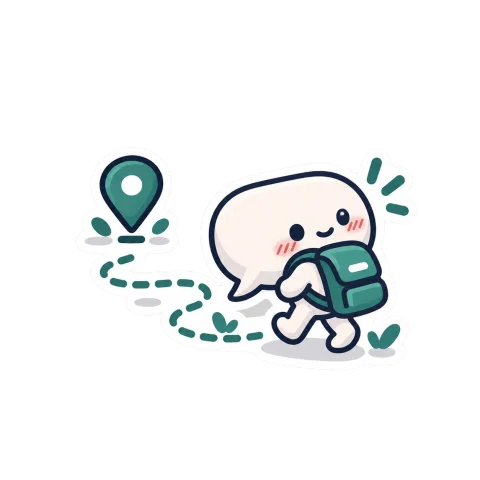
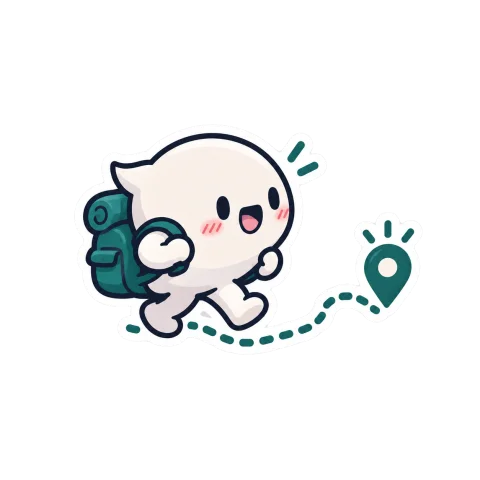
feat: a friends illustration set, picked when a chat rarely says love
Chats under 5 love words per 1,000 messages (or fewer than 10 in all) get a second
ChatGPT-made set of covers and slide art with banter instead of hearts and blushes.
Redraws the chapter 5 cover so the bubble faces where it walks.

Changed region(s): [[0.1562, 0.25, 0.875, 0.75], [0.4375, 0.3438, 0.4688, 0.375]]

diff --git a/src/slides.js b/src/slides.js
@@ -32,8 +32,10 @@ const hidden = (text) => Array(Math.max(1, Math.min(5, Math.round(text.length / 
 const asEmoji = (e) => ([...e].length === 1 ? `${e}` : e);
 
 // The illustration a headline slide opens with: the bubble character acting out the stat
-// (public/art/{id}.webp). Decorative: the number and the words say it all.
-const art = (id) => `<img class="ow-pic" src="./art/${id}.webp" alt="" aria-hidden="true">`;
+// (public/art/{id}.webp, or art/friends/ for a chat between friends). Decorative: the number
+// and the words say it all.
+const friends = (vibe) => (vibe === 'friends' ? 'friends/' : '');
+const art = (id, S) => `<img class="ow-pic" src="./art/${friends(S?.vibe)}${id}.webp" alt="" aria-hidden="true">`;
 
 // The streak as a calendar laid on its side: a column per week (Monday at the top), the
 // streak's days filled, its ends ringed, other days you talked shown faintly. Seven rows
@@ -126,17 +128,17 @@ function fastest(S) {
 // A chapter's cover: its number, title, a line on what's in it, and its picture.
 const cover = (n) => ({
   id: `ch${n}`, chapter: n, cover: true,
-  render: () => `<div class="k ow-head"><span>${t('chapterK', n)}</span><span class="ow-brand">Our Wrapped</span></div>`
+  render: (S) => `<div class="k ow-head"><span>${t('chapterK', n)}</span><span class="ow-brand">Our Wrapped</span></div>`
     + `<div class="body ch-body"><div class="ow-text"><div class="ch-num">${String(n).padStart(2, '0')}</div>`
     + `<div class="ch-title">${t(`ch${n}Title`)}</div><div class="ch-teaser">${t(`ch${n}Teaser`)}</div></div>`
-    + `<img class="ch-art" src="./chapters/${n}.webp" alt="${t(`ch${n}Alt`)}"></div><div class="foot"></div>`,
+    + `<img class="ch-art" src="./chapters/${friends(S?.vibe)}${n}.webp" alt="${t(`ch${n}Alt${S?.vibe === 'friends' ? 'F' : ''}`)}"></div><div class="foot"></div>`,
 });
 
 export const SLIDES = [
   { id: 'intro', chapter: 1, render: (S) => {
     const p = S.pace;
     return slide({
-      kicker: t('introKicker'), art: art('intro'),
+      kicker: t('introKicker'), art: art('intro', S),
       ctx: S.range ? t('rangeFrom', esc(S.range), fmtDate(S.firstDate)) : t('since', fmtDate(S.firstDate)),
       hero: big(S.total), stmt: t('introStmt', esc(S.A), esc(S.B)),
       remark: p ? paceRemark(S) : '',
@@ -166,7 +168,7 @@ export const SLIDES = [
     const g = S.goodnight, bye = g[S.A] >= g[S.B] ? S.A : S.B;
     // A goodnight claim needs a few nights behind it.
     return slide({
-      lead: leads.starts(S), kicker: t('startsKicker'), art: art('starts'),
+      lead: leads.starts(S), kicker: t('startsKicker'), art: art('starts', S),
       hero: big(c.starts[w]), stmt: t('startsStmt', esc(w), c.starts[w]), remark: t('startsRemark', esc(l), nf(c.starts[l])),
       callout: g[bye] < 3 ? callout('', t('startsFoot')) : g[S.A] === g[S.B] ? callout('', t('goodnightTie')) : callout(g[bye], t('goodnightCall', esc(bye))),
     });
@@ -175,7 +177,7 @@ export const SLIDES = [
   { id: 'morning', chapter: 1, render: (S) => {
     const w = S.ft[S.A] >= S.ft[S.B] ? S.A : S.B, l = w === S.A ? S.B : S.A;
     return slide({
-      lead: leads.morning(S), kicker: t('firstThought'), art: art('morning'),
+      lead: leads.morning(S), kicker: t('firstThought'), art: art('morning', S),
       hero: big(S.ft[w]), stmt: t('mornings', esc(w), S.ft[w]), remark: t('morningFoot'),
       callout: callout(S.ft[l], t('morningCall', esc(l))),
     });
@@ -275,7 +277,7 @@ export const SLIDES = [
   cover(3),
 
   { id: 'love', chapter: 3, skip: (S) => !(S.love[S.A] + S.love[S.B]), render: (S) => slide({
-    kicker: t('loveKicker'), art: art('love'),
+    kicker: t('loveKicker'), art: art('love', S),
     hero: big(S.love[S.A] + S.love[S.B]), stmt: t('loveStmt', S.love[S.A] + S.love[S.B]), remark: t('loveRemark'),
     callout: callout(`${nf(S.love[S.A])} · ${nf(S.love[S.B])}`, t('loveCall', esc(S.A), esc(S.B))),
   }) },
@@ -283,7 +285,7 @@ export const SLIDES = [
   { id: 'sorry', chapter: 3, skip: (S) => !(S.sorry[S.A] + S.sorry[S.B]), render: (S) => {
     const w = S.sorry[S.A] >= S.sorry[S.B] ? S.A : S.B, l = w === S.A ? S.B : S.A;
     return slide({
-      lead: leads.sorry(S), kicker: t('apologies'), art: art('sorry'),
+      lead: leads.sorry(S), kicker: t('apologies'), art: art('sorry', S),
       hero: big(S.sorry[w]), stmt: t('saidSorry', esc(w), S.sorry[w]), remark: t('sorryRemark', esc(l), S.sorry[l]),
       callout: callout('', !S.sorryFirst[w] ? t('noSorry') : S.hide?.sorry ? t('firstSorryHidden') : t('firstSorry', esc(S.sorryFirst[w].text.slice(0, 70))), 'nudge'),
     });
@@ -332,7 +334,7 @@ export const SLIDES = [
   { id: 'busy', chapter: 4, render: (S) => {
     const pct = (S.busyN / S.total) * 100;
     return slide({
-      kicker: t('loudest'), art: art('busy'), ctx: fmtDay(S.busy),
+      kicker: t('loudest'), art: art('busy', S), ctx: fmtDay(S.busy),
       hero: big(S.busyN), stmt: t('loudLine'), remark: t('loudRemark'),
       more: `<button type="button" class="slide-act" data-act="chat">${t('chatButton')}</button>`,
       callout: callout(`${pct < 10 ? pct.toFixed(1) : Math.round(pct)}%`, t('loudCall')),
@@ -408,10 +410,10 @@ export function slidesFor(S) {
 }
 
 // The last slide: a message the sender types before playing.
-export const closingSlide = (note, signed) => ({
+export const closingSlide = (note, signed, vibe) => ({
   id: 'closing', chapter: 5,
   render: () => slide({
-    kicker: t('oneMore'), art: art('closing'),
+    kicker: t('oneMore'), art: art('closing', { vibe }),
     stmt: `<span class="note">${esc(note).replace(/\n/g, '<br>')}</span>`,
     remark: signed ? t('withLoveFrom', esc(signed)) : t('withLove'),
   }),

diff --git a/src/i18n.js b/src/i18n.js
@@ -233,7 +233,11 @@ export const STRINGS = {
     ch5Title: 'Where it went', ch5Teaser: 'How it rose, how it settled, and who kept it going.',
     ch1Alt: 'Two chat bubbles meeting for the first time', ch2Alt: 'A chat bubble mid-sentence, typing dots flying',
     ch3Alt: 'A chat bubble holding a small heart', ch4Alt: 'A chat bubble under a crescent moon',
-    ch5Alt: 'A chat bubble looking back along a winding path',
+    ch5Alt: 'A chat bubble with a backpack walking towards a map pin',
+    // the friends set: same chapters, no hearts or blushes
+    ch1AltF: 'Two chat bubbles bumping fists', ch2AltF: 'A chat bubble in sunglasses talking nonstop while another gives it side-eye',
+    ch3AltF: 'One chat bubble pulling another into an awkward side-hug', ch4AltF: 'A sleepy chat bubble on a crescent moon, scrolling its phone',
+    ch5AltF: 'A chat bubble in sunglasses marching to a map pin, holding the map upside down',
     cbKicker: 'The comebacks', cbStmt: (n) => `${n} ${n === 1 ? 'time' : 'times'} this chat went dark<br>for two weeks or more.`,
     cbBrought: 'brought it back', cbDays: 'd',
     cbRevived: (w, n, often) => `${w} brought it back ${n == null ? 'every time' : `${n} of those times`}.${often ? ' The official defibrillator of this chat.' : ''}`,
@@ -453,7 +457,10 @@ export const STRINGS = {
     ch5Title: 'Ke mana arahnya', ch5Teaser: 'Macam mana ia naik, macam mana ia reda, dan siapa yang teruskan.',
     ch1Alt: 'Dua bubble chat bertemu buat kali pertama', ch2Alt: 'Bubble chat sedang menaip, titik-titik berterbangan',
     ch3Alt: 'Bubble chat memegang hati kecil', ch4Alt: 'Bubble chat di bawah bulan sabit',
-    ch5Alt: 'Bubble chat menoleh ke belakang di laluan berliku',
+    ch5Alt: 'Bubble chat bergalas beg berjalan ke arah pin peta',
+    ch1AltF: 'Dua bubble chat berlaga penumbuk', ch2AltF: 'Bubble chat berkaca mata hitam bercakap tanpa henti, satu lagi menjeling',
+    ch3AltF: 'Satu bubble chat menarik bubble lain ke dalam pelukan sisi yang janggal', ch4AltF: 'Bubble chat mengantuk di atas bulan sabit, skrol telefon',
+    ch5AltF: 'Bubble chat berkaca mata hitam menuju pin peta, peta dipegang terbalik',
     cbKicker: 'Comeback', cbStmt: (n) => `${n} kali chat ni senyap<br>dua minggu atau lebih.`,
     cbBrought: 'yang hidupkan semula', cbDays: 'h',
     cbRevived: (w, n, often) => `${w} yang hidupkan semula ${n == null ? 'setiap kali' : `${n} daripadanya`}.${often ? ' Defibrilator rasmi chat ni.' : ''}`,

diff --git a/tests/stats.test.js b/tests/stats.test.js
@@ -1,6 +1,6 @@
 import { describe, expect, it } from 'vitest';
 import { parse } from '../src/parser.js';
-import { bubbles, texterType, carriedNights, conversations, convoStats, firstTexter, goodnightFirst, longestStreak, median, quietHours, replySpeed, sameConversation, signatureWords, signOff, stats, talker, talkRoles } from '../src/stats.js';
+import { bubbles, vibeOf, texterType, carriedNights, conversations, convoStats, firstTexter, goodnightFirst, longestStreak, median, quietHours, replySpeed, sameConversation, signatureWords, signOff, stats, talker, talkRoles } from '../src/stats.js';
 import { setLang, t } from '../src/i18n.js';
 import { SLIDES, slidesFor } from '../src/slides.js';
 import { compact, fmtRange, formatReply } from '../src/format.js';
@@ -86,6 +86,24 @@ describe('stats helpers', () => {
       for (let h = 0; h < 24; h++) if (h < 4 || h >= 10) lines.push(`${d}/1/26, ${String(h).padStart(2, '0')}:00 - A: hi`);
     }
     expect(quietHours(parse(lines.join('\n')), ['A'])).toEqual({ A: { start: 4, end: 10 } });
+  });
+});
+
+describe('vibe: lovers or friends', () => {
+  it('a chat that keeps saying it is lovers; one that rarely does is friends', () => {
+    expect(vibeOf(318, 2510)).toBe('lovers'); // the example couple: ~127 per 1,000 messages
+    expect(vibeOf(80, 56258)).toBe('friends'); // a long real friendship: 1.4 per 1,000
+    expect(vibeOf(0, 850)).toBe('friends');
+  });
+
+  it('needs both the rate and a handful of mentions', () => {
+    expect(vibeOf(5, 1000)).toBe('friends'); // the rate, but only five times
+    expect(vibeOf(10, 2000)).toBe('lovers');
+    expect(vibeOf(10, 2100)).toBe('friends');
+  });
+
+  it('is part of the stats', () => {
+    expect(stats(parse(makeSample())).vibe).toBe('lovers');
   });
 });
 

diff --git a/tests/story.test.js b/tests/story.test.js
@@ -122,6 +122,19 @@ describe('character art', () => {
   it('ships every illustration it points at', () => {
     for (const id of [...ART, 'closing']) expect(existsSync(new URL(`../public/art/${id}.webp`, import.meta.url)), id).toBe(true);
   });
+
+  it('friends get their own set: no hearts and blushes for a chat that never says it', () => {
+    const F = { ...S, vibe: 'friends' };
+    for (const id of ART) expect(render(id, F), id).toMatch(new RegExp(`src="\\./art/friends/${id}\\.webp"`));
+    expect(closingSlide('hi', '', 'friends').render()).toMatch(/src="\.\/art\/friends\/closing\.webp"/);
+    for (const n of [1, 2, 3, 4, 5]) {
+      const html = SLIDES.find((x) => x.id === `ch${n}`).render(F);
+      expect(html, `ch${n}`).toMatch(new RegExp(`<img class="ch-art" src="\\./chapters/friends/${n}\\.webp" alt="[^"]+"`));
+      expect(html).not.toContain(`alt="${SLIDES.find((x) => x.id === `ch${n}`).render(S).match(/alt="([^"]+)"/)[1]}"`);
+    }
+    for (const id of [...ART, 'closing']) expect(existsSync(new URL(`../public/art/friends/${id}.webp`, import.meta.url)), id).toBe(true);
+    for (const n of [1, 2, 3, 4, 5]) expect(existsSync(new URL(`../public/chapters/friends/${n}.webp`, import.meta.url)), `ch${n}`).toBe(true);
+  });
 });
 
 describe('a reveal per slide', () => {

diff --git a/src/stats.js b/src/stats.js
@@ -424,6 +424,11 @@ export function comebacks(msgs, pair) {
   return { eligible: true, count: all.length, by, longest, longestGap, silences: all.filter((x) => keep.has(x)) };
 }
 
+// Lovers or friends, for the illustrations: a couple says it all the time (the example chat
+// runs ~127 per 1,000 messages), friends hardly ever (six real friendships: 0 to 1.4). Five
+// per 1,000 and at least ten in all is well clear of both.
+export const vibeOf = (love, total) => (love >= 10 && (love / total) * 1000 >= 5 ? 'lovers' : 'friends');
+
 export function stats(all, now = new Date()) {
   const count = {};
   for (const m of all) count[m.who] = (count[m.who] || 0) + 1;
@@ -479,6 +484,7 @@ export function stats(all, now = new Date()) {
   const streak = longestStreak(dk);
 
   return {
+    vibe: vibeOf(love[A] + love[B], msgs.length),
     A, B, group: Object.keys(count).length > 2, total: msgs.length, count,
     pace: pace(msgs, dk, now),
     days: dk.length, dayKeys: dk, first, firstReplies, firstWait, firstDate: msgs[0].when,

diff --git a/src/main.js b/src/main.js
@@ -63,7 +63,7 @@ try {
 function slideList() {
   const text = note.value.trim();
   const list = slidesFor(current);
-  return text ? [...list, closingSlide(text, signed.value.trim())] : list;
+  return text ? [...list, closingSlide(text, signed.value.trim(), current.vibe)] : list;
 }
 
 const summaryLine = (s) => t('loaded', nf(s.total), esc(s.A), esc(s.B), s.days) + (s.group ? t('group') : '') + t('private');
